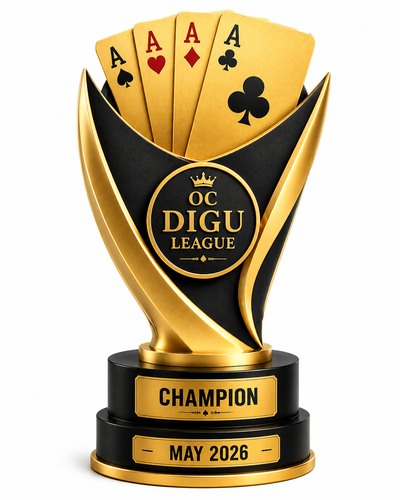
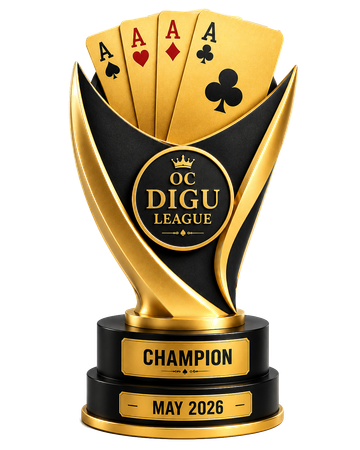
Champion trophy: proper transparent PNG via Sharp bg removal, no canvas processing needed

diff --git a/src/components/players/PlayerProfile.tsx b/src/components/players/PlayerProfile.tsx
@@ -188,53 +188,16 @@ function TrophyCase({ trophiesJson }: { trophiesJson: string | undefined | null 
               {/* Trophy display — circular for coins, canvas for champion */}
               <div style={{ position: 'relative', display: 'flex', justifyContent: 'center', alignItems: 'center' }}>
                 {t.image.includes('champion') ? (
-                  /* Champion trophy: canvas removes background cleanly */
-                  <>
-                    <img src={t.image} alt="" style={{ display: 'none' }} crossOrigin="anonymous"
-                      onLoad={(e) => {
-                        const img = e.currentTarget;
-                        const canvas = img.nextElementSibling as HTMLCanvasElement;
-                        if (!canvas) return;
-                        const ctx = canvas.getContext('2d');
-                        if (!ctx) return;
-                        canvas.width = img.naturalWidth;
-                        canvas.height = img.naturalHeight;
-                        ctx.drawImage(img, 0, 0);
-                        const data = ctx.getImageData(0, 0, canvas.width, canvas.height);
-                        const d = data.data;
-                        // Detect background color from corner pixel
-                        const bgR = d[0], bgG = d[1], bgB = d[2];
-                        const isWhiteBg = (bgR + bgG + bgB) / 3 > 180;
-                        const isDarkBg  = (bgR + bgG + bgB) / 3 < 80;
-                        for (let i = 0; i < d.length; i += 4) {
-                          const r = d[i], g = d[i+1], b = d[i+2];
-                          const bright = (r + g + b) / 3;
-                          const sat = Math.max(r,g,b) - Math.min(r,g,b);
-                          if (isWhiteBg) {
-                            // Remove white/near-white — smooth edges with 130→220 ramp
-                            if (bright > 130 && sat < 60) {
-                              const alpha = bright > 210 ? 0 : Math.round((210 - bright) / 80 * 255);
-                              d[i+3] = Math.min(d[i+3], alpha);
-                            }
-                          } else if (isDarkBg) {
-                            // Remove dark/navy background pixels
-                            const diffR = Math.abs(r - bgR), diffG = Math.abs(g - bgG), diffB = Math.abs(b - bgB);
-                            const diff = (diffR + diffG + diffB) / 3;
-                            if (diff < 40 && bright < 100) {
-                              d[i+3] = Math.min(d[i+3], Math.round(diff / 40 * 255));
-                            }
-                          }
-                        }
-                        ctx.putImageData(data, 0, 0);
-                        canvas.style.display = 'block';
-                      }}
-                    />
-                    <canvas style={{
-                      width: 200, height: 'auto', display: 'none',
-                      filter: 'drop-shadow(0 0 20px rgba(212,175,55,0.8)) drop-shadow(0 0 40px rgba(212,175,55,0.4)) drop-shadow(0 8px 24px rgba(0,0,0,0.7))',
-                      position: 'relative', zIndex: 1,
-                    }} />
-                  </>
+                  /* Champion trophy: PNG already has transparent background */
+                  <img
+                    src={t.image}
+                    alt={t.name}
+                    style={{
+                      width: 210, height: 'auto',
+                      display: 'block', position: 'relative', zIndex: 1,
+                      filter: 'drop-shadow(0 0 20px rgba(212,175,55,0.75)) drop-shadow(0 0 40px rgba(212,175,55,0.35)) drop-shadow(0 10px 28px rgba(0,0,0,0.7))',
+                    }}
+                  />
                 ) : (
                   /* Coins: circular frame clips square background */
                   <div style={{